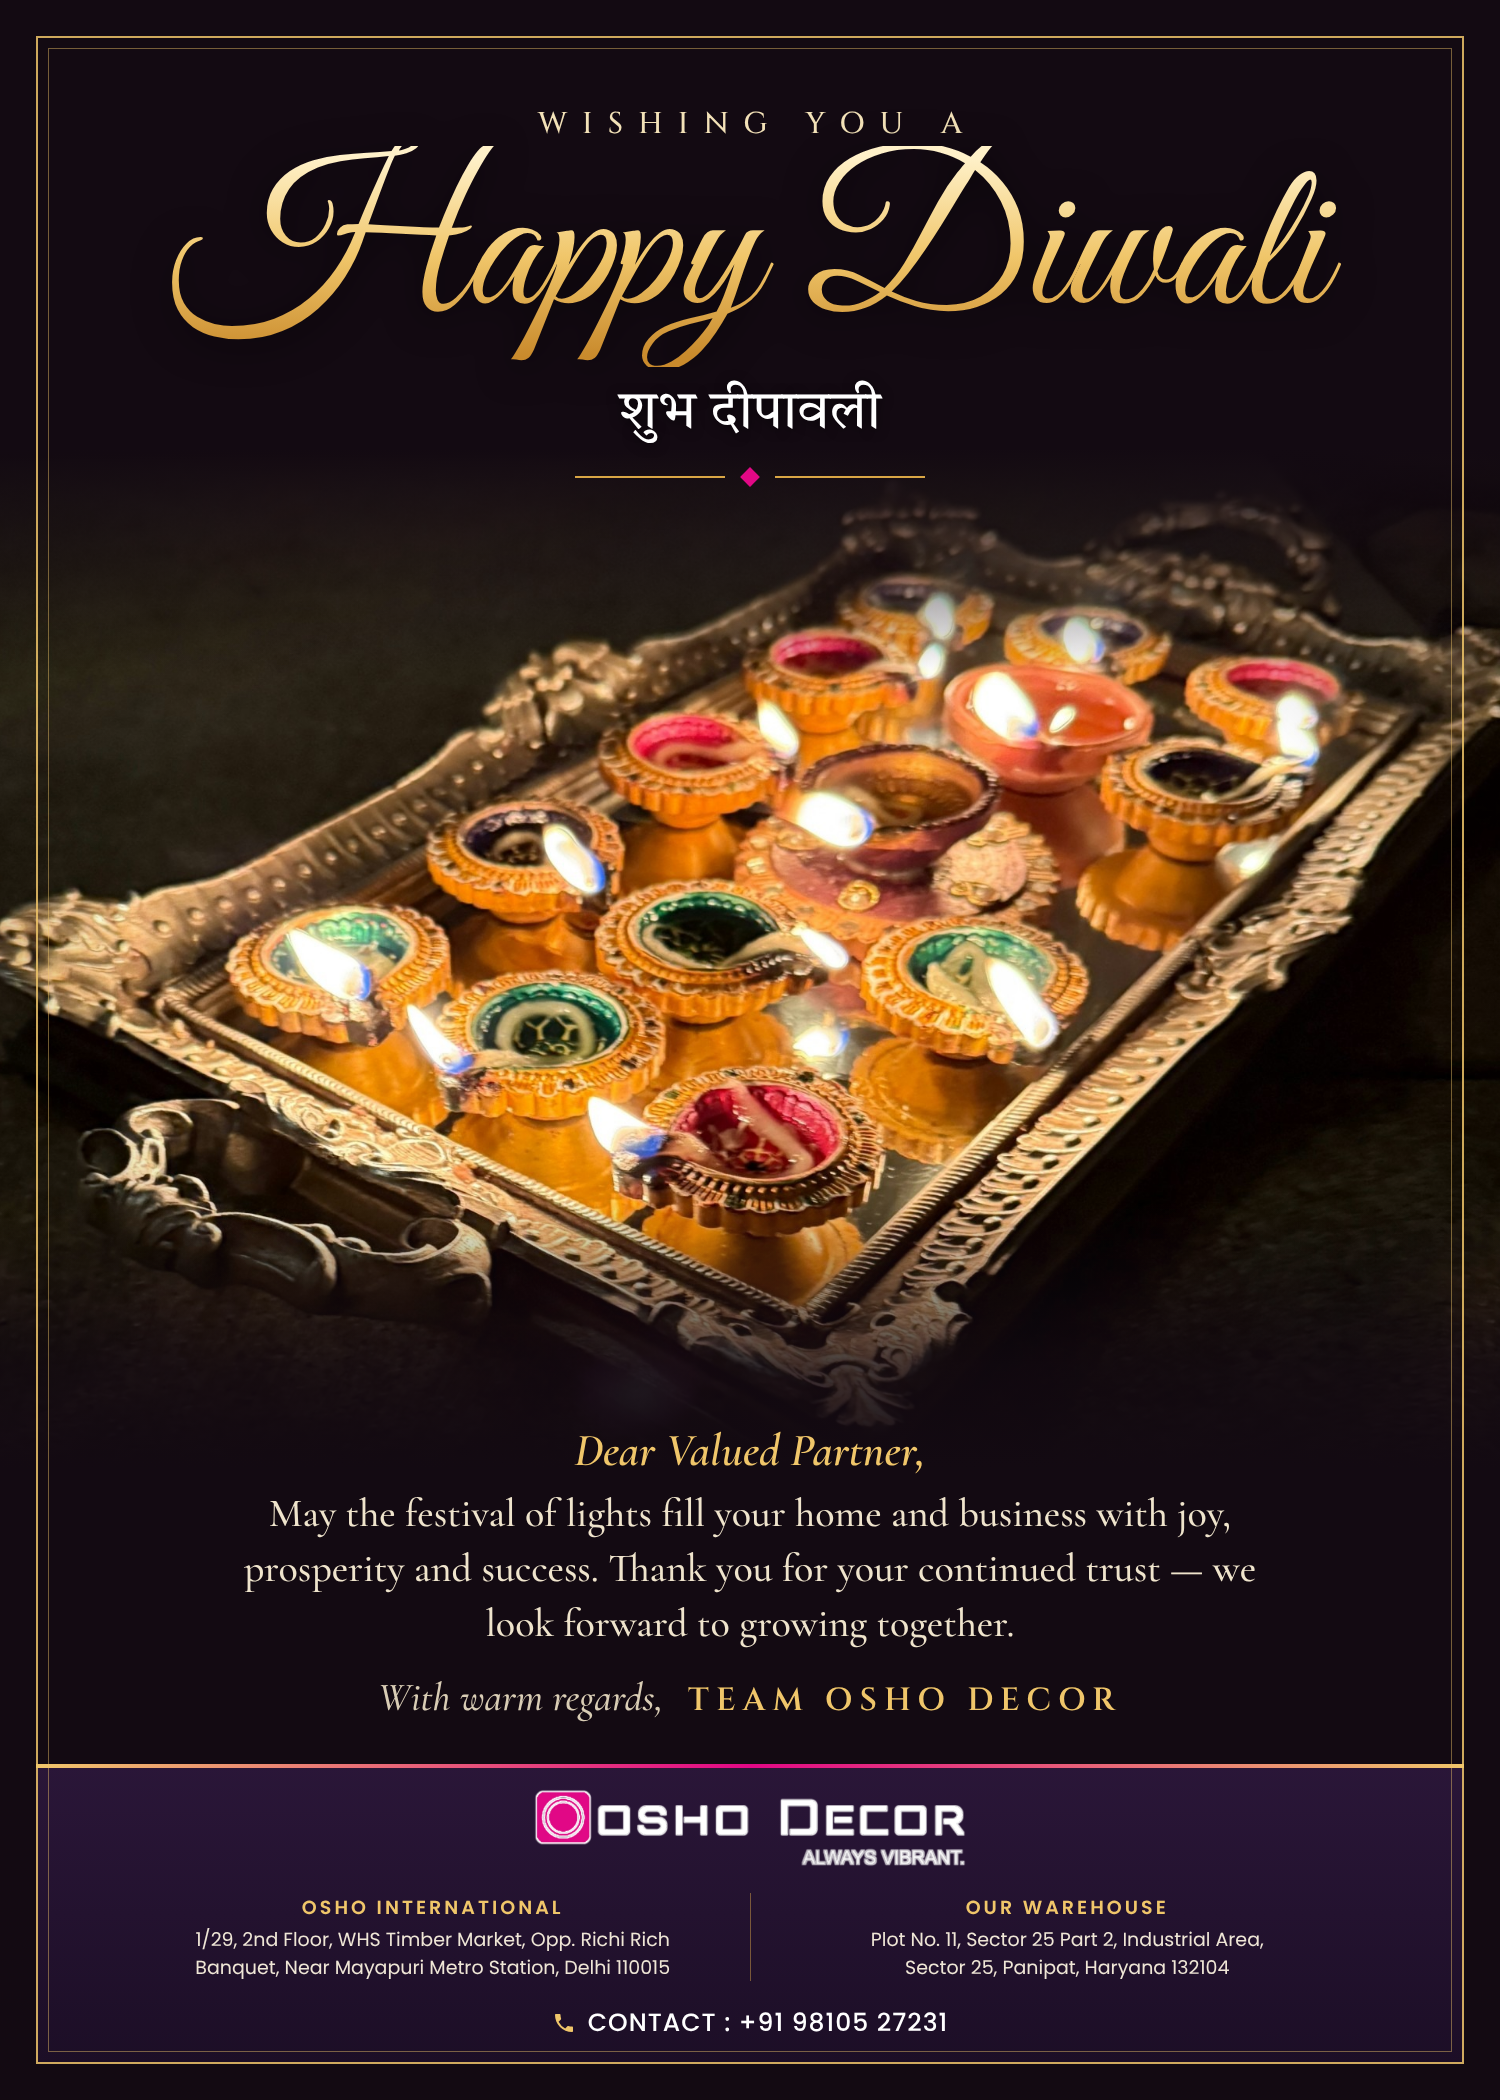
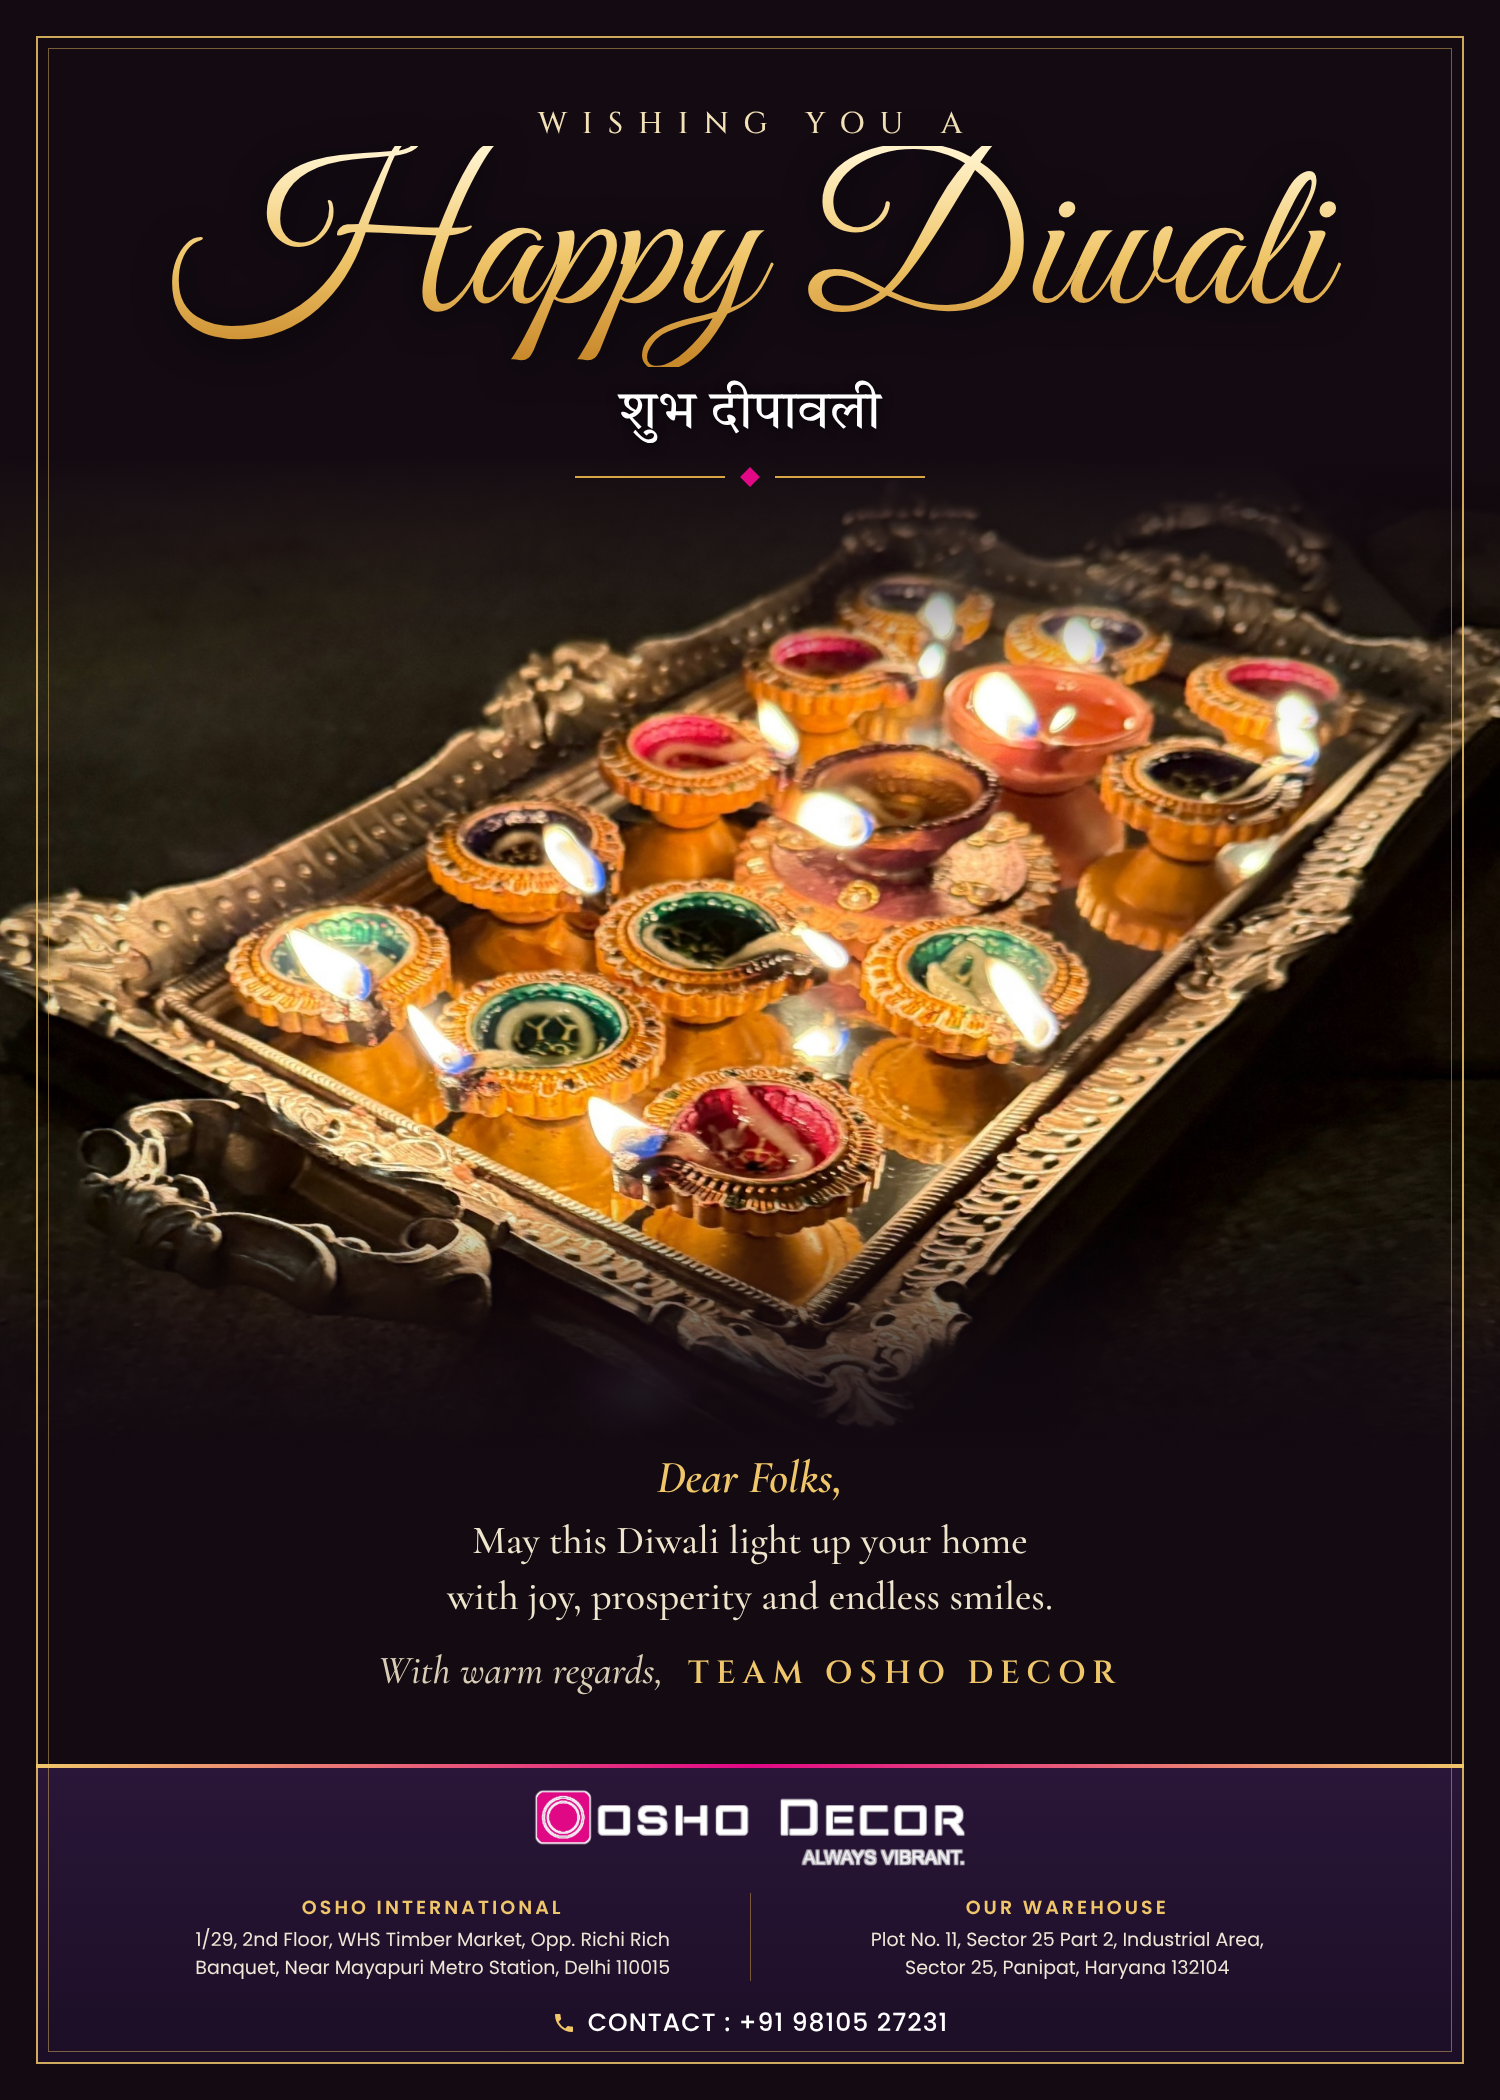
Diwali card 4: greet "Dear Folks" with a short message
Claude-Session: https://claude.ai/code/session_0139BuMiDbbgguFwkEm73kW5

Changed region(s): [[0.184, 0.681, 0.7053, 0.8357], [0.736, 0.7119, 0.7973, 0.7738], [0.7053, 0.7738, 0.736, 0.8357]]

diff --git a/festival-posts/diwali-card-4.html b/festival-posts/diwali-card-4.html
@@ -74,8 +74,8 @@ body{background:#777}
   <div class="layer" style="top:382px"><div class="hi">शुभ दीपावली</div></div>
   <div class="layer" style="top:470px"><div class="divider"><i></i><b></b><i></i></div></div>
   <div class="layer letter" id="msg">
-    <div class="dear">Dear Valued Partner,</div>
-    <p>May the festival of lights fill your home and business with joy, prosperity and success. Thank you for your continued trust &mdash; we look forward to growing together.</p>
+    <div class="dear">Dear Folks,</div>
+    <p>May this Diwali light up your home<br>with joy, prosperity and endless smiles.</p>
     <div class="regards">With warm regards, <span>&nbsp;TEAM OSHO DECOR</span></div>
   </div>
 
